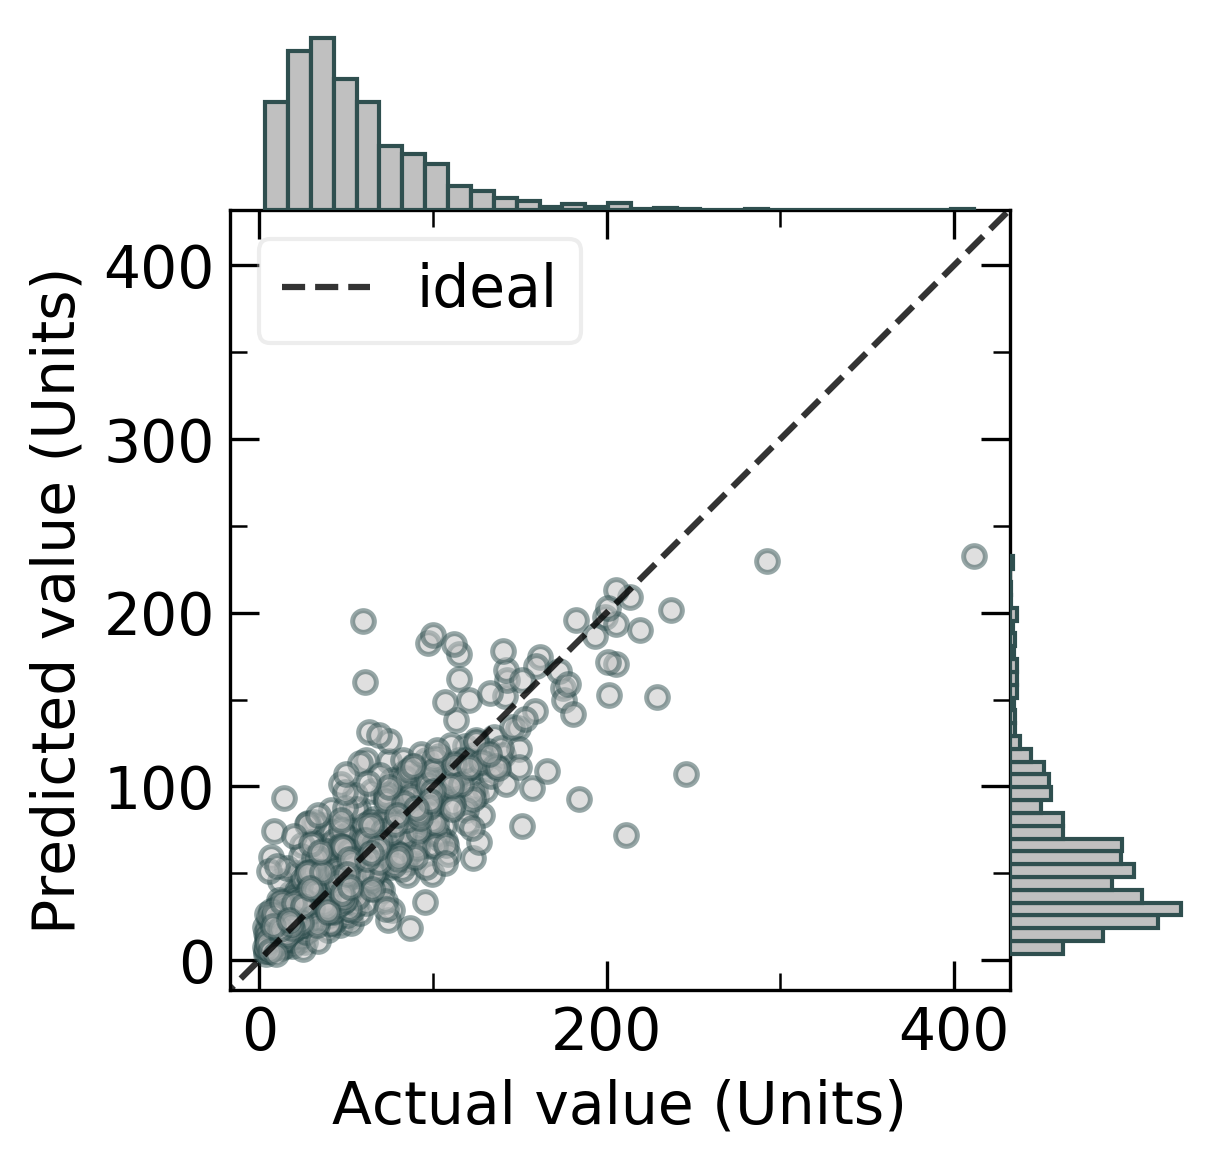
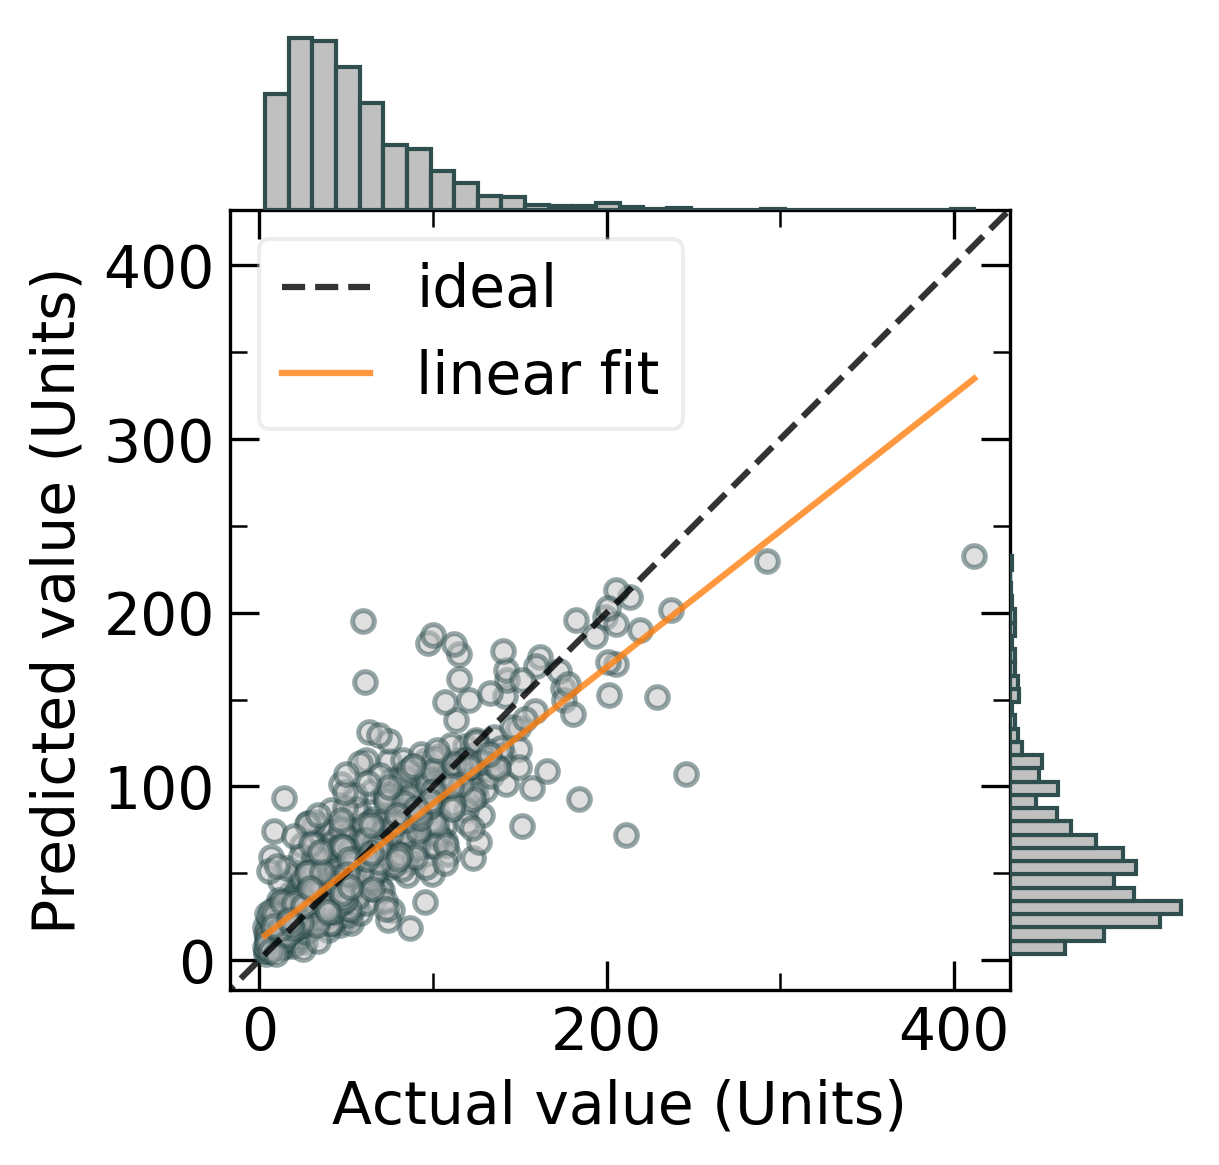
Implement plotting a linear fit to the pred vs. act plots

diff --git a/figures.py b/figures.py
@@ -20,6 +20,7 @@ def act_pred(y_act, y_pred,
              name='example',
              x_hist=True,
              y_hist=True,
+             reg_line=True,
              save_dir=None):
 
     mec = '#2F4F4F'
@@ -97,6 +98,11 @@ def act_pred(y_act, y_pred,
 
     if y_hist:
         [p.set_alpha(1.0) for p in ax3_patches]
+
+    if reg_line:
+        polyfit = np.polyfit(y_act, y_pred, deg=1)
+        reg_ys = np.poly1d(polyfit)(np.unique(y_act))
+        ax2.plot(np.unique(y_act), reg_ys, alpha=0.8, label='linear fit')
 
     ax2.legend(loc=2, framealpha=0.35, handlelength=1.5)
     plt.draw()
@@ -404,11 +410,13 @@ if __name__ == '__main__':
     y_act, y_pred = df_act_pred.iloc[:, 1], df_act_pred.iloc[:, 2]
 
     act_pred(y_act, y_pred,
+             reg_line=True,
              save_dir='example_figures')
 
     act_pred(y_act, y_pred,
              name='example_no_hist',
              x_hist=False, y_hist=False,
+             reg_line=True,
              save_dir='example_figures')
 
     residual(y_act, y_pred,
